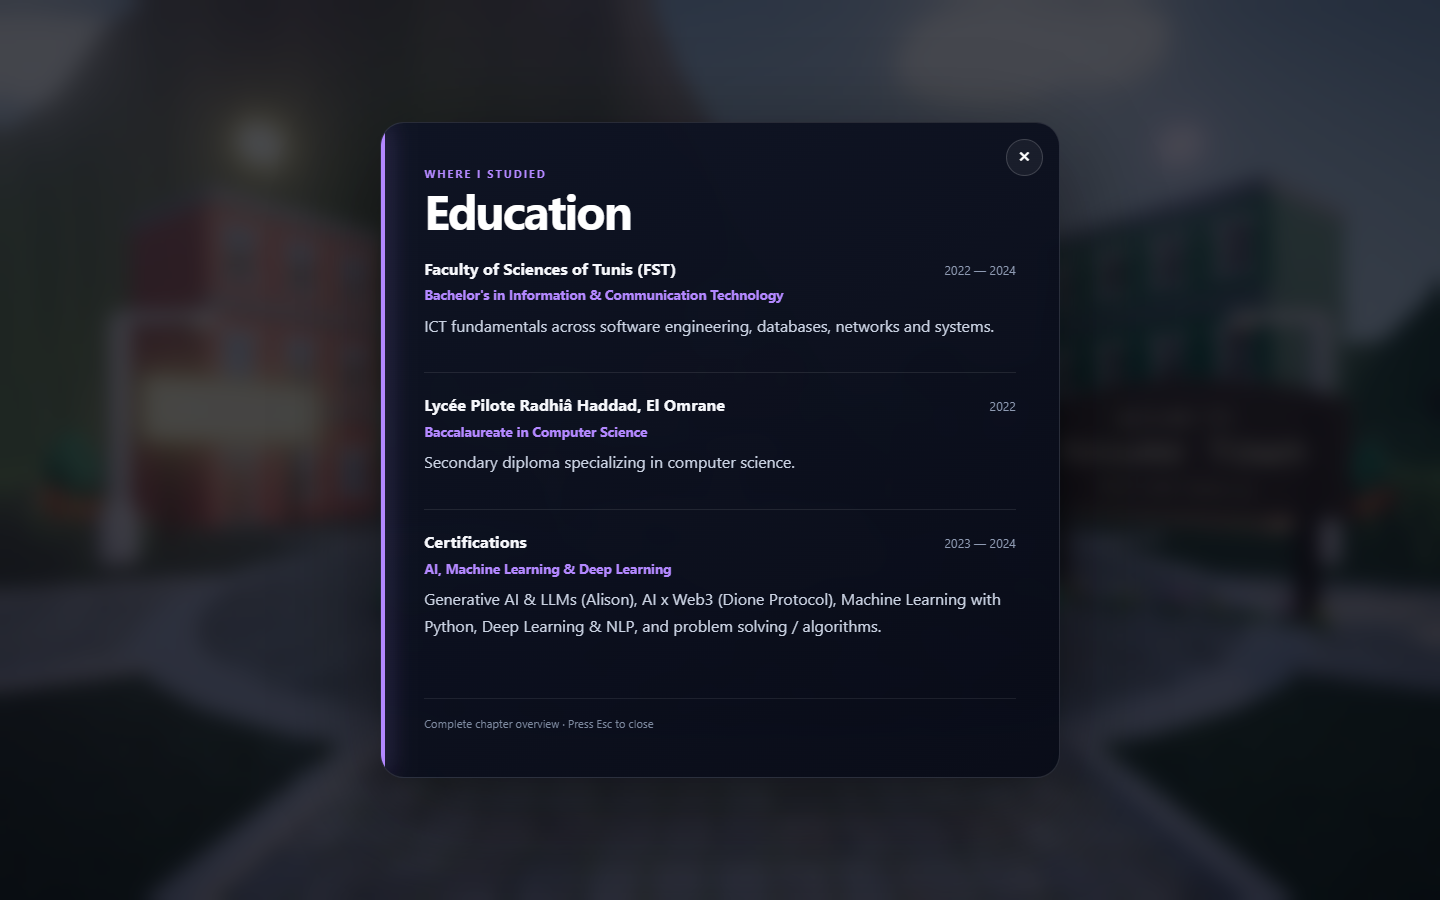
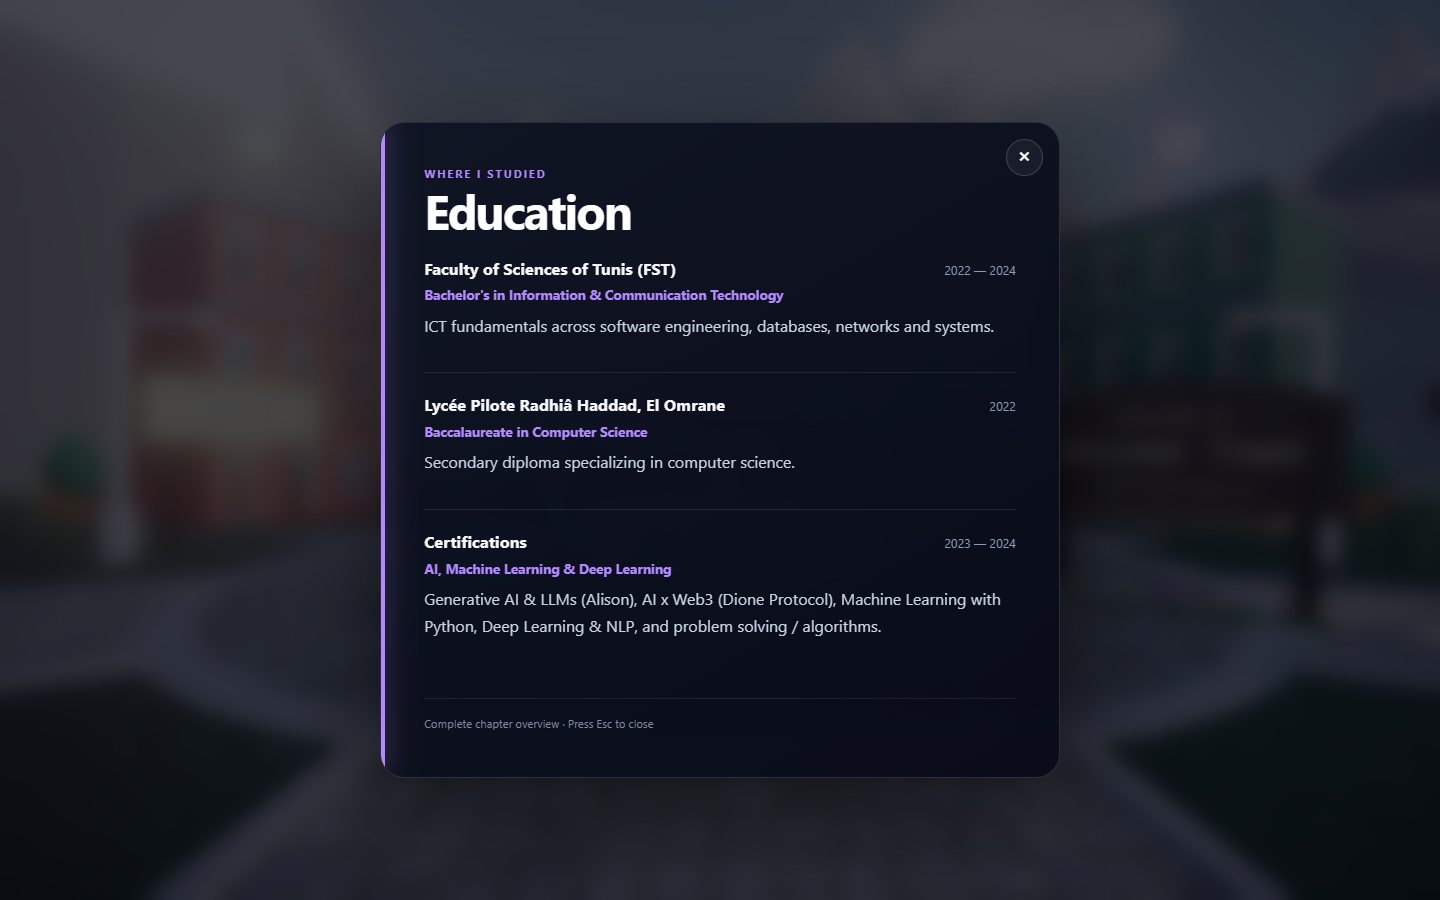
Download real 3D mountains (Poly Pizza) replacing the procedural ridge
Add MountainRange: clones Servin Nissen's CC-BY 'Mountain' peak into two
overlapping rings (near + far), oriented tangentially and pushed clear of the
town, forming a 3D snow-capped range around the horizon. Remove the procedural
Mountains mesh. Credit the CC-BY author in CREDITS.md.

diff --git a/src/components/MountainRange.tsx b/src/components/MountainRange.tsx
@@ -1,0 +1,61 @@
+import { useMemo } from "react";
+import { useGLTF } from "@react-three/drei";
+import { mulberry32 } from "../rand";
+
+// "Mountain" by Servin Nissen (CC-BY 3.0) — a downloaded low-poly peak, cloned
+// into a dense ring to form a real 3D mountain range around the town.
+const PEAK = "/models/nature/mtn_peak.glb";
+const PEAK_MIN_Y = -0.33; // model's lowest point, for seating
+
+interface Placement {
+  position: [number, number, number];
+  scale: number;
+  rotationY: number;
+  burial: number;
+}
+
+export default function MountainRange() {
+  const { scene } = useGLTF(PEAK);
+
+  const placements = useMemo<Placement[]>(() => {
+    const rng = mulberry32(71);
+    const list: Placement[] = [];
+    // two overlapping rings (near + far) so the range reads with depth and no
+    // sky gaps at the horizon. Pushed clear of the town (roam limit ~34, trees
+    // to ~41) and oriented tangentially so the long ridges hug the horizon
+    // instead of sweeping toward the plaza.
+    const rings = [
+      { count: 32, rMin: 68, rMax: 86, sMin: 22, sMax: 40, burial: 4 },
+      { count: 24, rMin: 94, rMax: 132, sMin: 40, sMax: 78, burial: 10 },
+    ];
+    for (const ring of rings) {
+      for (let i = 0; i < ring.count; i++) {
+        const angle = (i / ring.count) * Math.PI * 2 + (rng() - 0.5) * 0.2;
+        const radius = ring.rMin + rng() * (ring.rMax - ring.rMin);
+        list.push({
+          position: [Math.sin(angle) * radius, 0, Math.cos(angle) * radius],
+          scale: ring.sMin + rng() * (ring.sMax - ring.sMin),
+          rotationY: angle + Math.PI / 2 + (rng() - 0.5) * 0.9,
+          burial: ring.burial,
+        });
+      }
+    }
+    return list;
+  }, []);
+
+  return (
+    <group>
+      {placements.map((p, i) => (
+        <primitive
+          key={i}
+          object={scene.clone()}
+          position={[p.position[0], -PEAK_MIN_Y * p.scale - p.burial, p.position[2]]}
+          rotation-y={p.rotationY}
+          scale={p.scale}
+        />
+      ))}
+    </group>
+  );
+}
+
+useGLTF.preload(PEAK);

diff --git a/src/components/Outdoor.tsx b/src/components/Outdoor.tsx
@@ -6,7 +6,7 @@ import Ground from "./Ground";
 import GroundFlora from "./GroundFlora";
 import GrassField from "./GrassField";
 import InstancedTrees from "./InstancedTrees";
-import Mountains from "./Mountains";
+import MountainRange from "./MountainRange";
 import Pathways from "./Pathways";
 import CityProps from "./CityProps";
 import Building from "./Building";
@@ -51,7 +51,7 @@ export default function Outdoor() {
     <>
       <SkyAtmosphere />
       <SkyLife />
-      <Mountains />
+      <MountainRange />
       <Ground />
       <GroundFlora />
       <GrassField />

diff --git a/CREDITS.md b/CREDITS.md
@@ -12,4 +12,6 @@ License: CC0 1.0 (Creative Commons Zero / Public Domain). Free for personal, edu
 
 - **KayKit** by Kay Lousberg (`public/models/kaykit/`) — City Builder Bits (buildings) and Furniture Bits (interior furniture) — https://kaylousberg.com / https://github.com/KayKit-Game-Assets — CC0 1.0. Converted from glTF to self-contained, quantized `.glb` with gltf-transform.
 
+- **"Mountain"** (`public/models/nature/mtn_peak.glb`) by **Servin Nissen**, via Poly Pizza — https://poly.pizza/m/6qp53W5djC5 — **CC-BY 3.0** (attribution required). Used as the 3D mountain range ringing the town.
+
 - **Kenney Pixel font** (`public/fonts/kenpixel.ttf`) from the three.js examples package, by Kenney — CC0.
